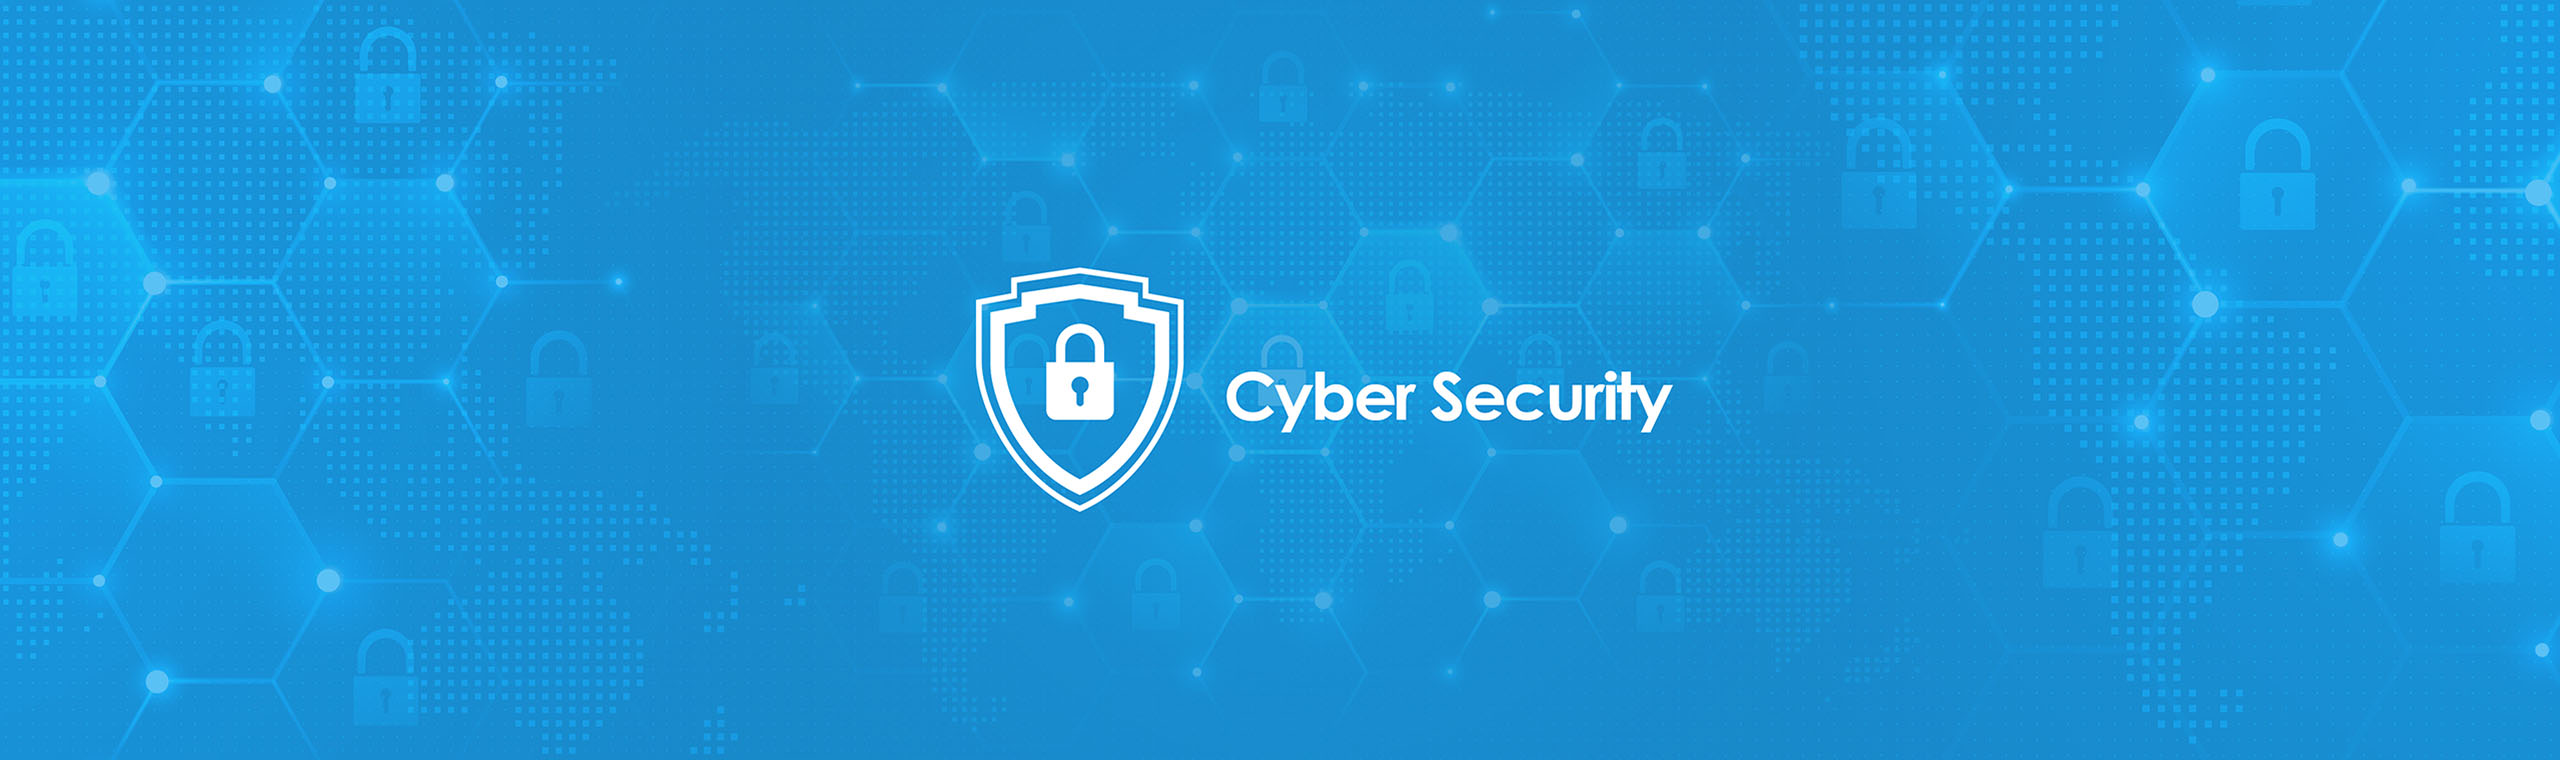
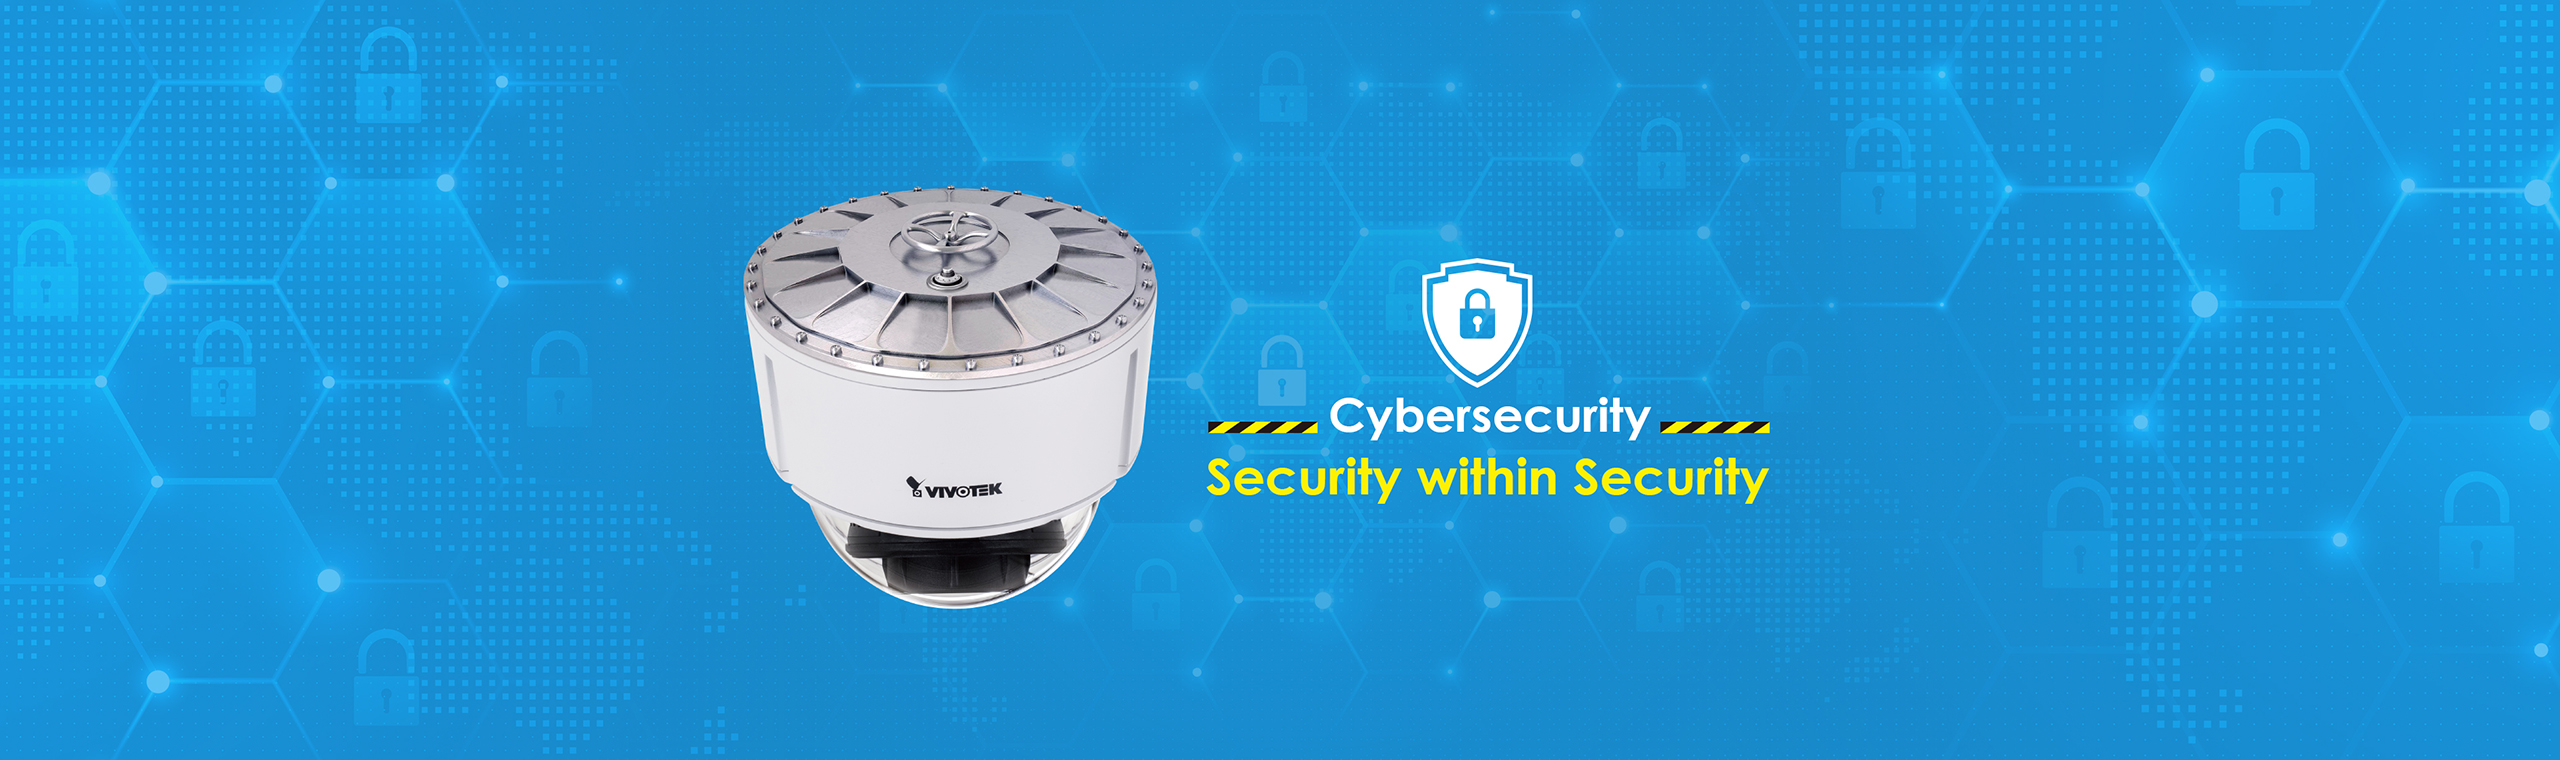
Updates cybersecurity info

Changed region(s): [[0.2812, 0.2421, 0.6875, 0.8171]]

diff --git a/support/cybersecurity/index.html b/support/cybersecurity/index.html
@@ -9,8 +9,8 @@
  <meta charset="utf-8">
  <meta http-equiv="X-UA-Compatible" content="IE=edge,chrome=1">
  <meta name="viewport" content="width=device-width, initial-scale=1.0">
- <title>Cyber Security</title>
- <meta name="description" content="Cyber attacks are a part of the current atmosphere of network computing devices. Due to this unfortunate reality, VIVOTEK pushes forth with industry best practices in order to reduce security vulnerabilities in our products.">
+ <title>Cybersecurity</title>
+ <meta name="description" content="Cyberattacks are a part of the current atmosphere of network computing devices. Due to this unfortunate reality, VIVOTEK pushes forth with industry best practices in order to reduce security vulnerabilities in our products.">
  <link rel="stylesheet" href="css/bootstrap.min.css">
  <link rel="stylesheet" href="css/bootstrap-theme.min.css">
  <link rel="stylesheet" href="css/fontello/fontello.min.css">
@@ -159,7 +159,7 @@ to improve your experience.
     <!-- BANNER -->
     <div class="container-fluid bg_blue_5">
       <div class="row">        
-        <img src="image/support/cyber-security/cyber-security-banner.jpg" alt="Cyber Security" class="width_100">
+        <img src="image/support/cyber-security/cyber-security-banner.jpg" alt="Cybersecurity" class="width_100">
       </div>
     </div>
 
@@ -170,49 +170,146 @@ to improve your experience.
        <div class="col-xs-1 col-md-2"></div>
        <div class="col-xs-10 col-md-8">
 
-        <h2>Overview</h2>
-        <p>Cyber attacks are a part of the current atmosphere of network computing devices. Due to this reality, VIVOTEK pushes forth with industry best practices in order to reduce security vulnerabilities in our products.</p>
+        <p>Cyberattacks are a part of the current atmosphere of network computing devices. Due to this reality, VIVOTEK pushes forth with industry best practices in order to reduce security vulnerabilities in our products.</p>
 
-        <p>VIVOTEK cyber security assurance efforts are built into the lifecycle of its products, including development, verification, manufacturing, delivery and service. We are constantly evaluating and enhancing our cyber security efforts in order to provide our valued customers with the highest quality and most reliable products. Although VIVOTEK cannot protect standardized network protocols and services from cyber attacks, we are committed to helping minimize and stop such events on our customers and VIVOTEK products.</p>
-        <div class="div_clear_38"></div>
+        <p>VIVOTEK cybersecurity assurance efforts are built into the lifecycle of its products, including development, verification, manufacturing, delivery and service. We are constantly evaluating and enhancing our cybersecurity efforts in order to provide our valued customers with the highest quality and most reliable products. Although VIVOTEK cannot protect standardized network protocols and services from cyberattacks, we are committed to helping minimize and stopping such events from occurring on VIVOTEK products.</p>
 
-        <h2>Downloads</h2>
-        <div class="div_clear_38"></div>
-
-        <div>
-          <div class="row text_center img_center">
-
-            <div class="hidden-xs col-md-3"></div>
-            <div class="col-xs-12 col-sm-6 col-md-3 mar_b_138">
-              <a href="http://download.vivotek.com/downloadfile/support/cyber-security/vivotek-vulnerability-policy.pdf?v=policy" target="_blank">
-                <img src="image/support/cyber-security/cyber-security-vulnerability-policy.png" alt="Vulnerability Policy" class="img-responsive width_38"><br>Vulnerability Policy
-              </a>
-            </div>
-            <div class="col-xs-12 col-sm-6 col-md-3 mar_b_138">
-              <a href="http://download.vivotek.com/downloadfile/support/vivotek_security_hardening_guide_v01.pdf?v=01" target="_blank">
-                <img src="image/support/cyber-security/cyber-security-security-hardening-guide.png" alt="Security Hardening Guide" class="img-responsive width_38"><br>Security Hardening Guide
-              </a>
-            </div>
-            <!-- <div class="col-xs-12 col-sm-6 col-md-3 mar_b_138">
-              <a href="firmware/#type-filter:path=.product_files" target="_blank">
-                <img src="image/support/cyber-security/cyber-security-product-firmware.png" alt="Product Firmware" class="img-responsive width_38"><br>Product Firmware
-              </a>
-            </div> -->
-            <div class="hidden-xs col-md-3"></div>
-
-          </div>
-        </div>
         <div class="div_clear_38"></div>
         
-        <h2>Contact Information</h2>
-        <p>Please contact us at <a href="mailto:cybersecurity@vivotek.com">cybersecurity@vivotek.com</a> to report a vulnerability or other security concern. For other support issues, please contact <a href="mailto:technical@vivotek.com">technical@vivotek.com</a>.</p>
+        <!-- Collaborating in Cyber Protection -->
+
+        <h2 class="l_blue_6 text_center">Collaborating in Cyber Protection</h2>
+
+        <div class="div_clear_18"></div>
+
+        <div class="row">
+          <div class="col-md-4">
+             <img src="image/support/cyber-security/cyber-security-management.png" alt="Cybersecurity" class="img_center">
+             <h4 class="text_center">Cybersecurity Management</h4>
+          </div>
+
+          <div class="col-md-4">
+             <img src="image/support/cyber-security/cyber-security-alliance-with-trend-micro.png" alt="Cybersecurity" class="img_center">
+             <h4 class="text_center">Alliance with Trend Micro</h4>
+          </div>
+
+          <div class="col-md-4">
+             <img src="image/support/cyber-security/cyber-security-understand-cyber-risks.png" alt="Cybersecurity" class="img_center">
+             <h4 class="text_center">Understand Cyber Risks</h4>
+          </div>
+        </div>
+
+        <div class="div_clear_18"></div>
+
+        <p>In collaboration with industry-leading cybersecurity software partners, VIVOTEK focuses on making network security products and software that meet industry protocols as well as constantly developing shields to increase your protection from various cyberattacks. By choosing VIVOTEK solutions, users can experience not only high-quality products, but also safer network environments.</p>
+
+        <div class="div_clear_58"></div>
+
+        <!-- Cybersecurity Management -->
+
+        <h2 class="l_blue_7 text_center">Cybersecurity Management</h2>
+
+        <p>VIVOTEK follows the best industry practices in building our security solutions, from product design and firmware development to 3<sup>rd</sup> party testing and reviews:</p>
+
+        <ul>
+          <li>Follows the Open Web Application Security Project (OWASP) Top 10 Guideline for IoT device, mobile, and website codes.</li>
+          <li>Performs internal product security code reviews.</li>
+          <li>Applies static code analysis using Coverity and Defencis.</li>
+          <li>Conducts penetration testing by Devcore, a 3<sup>rd</sup>  party security advisor for review and recommendation.</li>
+          <li>Provides the Vulnerability Policy, Hardening Guide, and Security Advisories for users to understand their cybersecurity needs and risks.</li>
+        </ul>
+
+        <div class="div_clear_28"></div>
+        <h4 class="text_center"><strong>Cybersecurity Report Process</strong></h4>
+        <h4 class="text_center">Timely response and transparency</h4>
+        <img src="image/support/cyber-security/cyber-security-report-process.png" alt="Cybersecurity" class="img_center img-responsive width_100">
+
+        <div class="div_clear_58"></div>
+
+        <!-- Alliance with Trend Micro -->
+
+        <h2 class="l_blue_7 text_center">Alliance with Trend Micro <img src="image/support/cyber-security/cyber-security-trend-micro-logo.png" alt="Cybersecurity" style="vertical-align:bottom;"></h2>
+
+        <div class="div_clear_18"></div>
+    
+        <div class="row">
+          <div class="col-md-6">
+            <div class="div_clear_8"></div>
+            <p>VIVOTEK is the world’s first network surveillance solution manufacturer to cooperate with the world-renowned cybersecurity company, Trend Micro. Through network cameras armed with Trend Micro's anti-intrusion software, VIVOTEK brings high security and robust network surveillance to secure lives and protect data.</p>
+          </div>
+
+          <div class="col-md-6">
+            <div class="pro_tab_video embed-responsive embed-responsive-16by9">
+              <iframe class="embed-responsive-item" src="https://www.youtube.com/embed/Nxl1DnbOq6E?showinfo=0" frameborder="0" allowfullscreen></iframe>
+            </div>
+          </div>
+        </div>
+
+        <div class="div_clear_58"></div>
+
+        <h4 class="text_center"><strong>Multi-Layer Protection Solution for Surveillance Cameras</strong></h4>
+
+        <div class="div_clear_18"></div>
+        
+        <img src="image/support/cyber-security/cyber-security-multi-layer-protection.png" alt="Cybersecurity" class="img_center img-responsive width_80">
+
+        <div class="div_clear_58"></div>
+
+        <ul>
+          <li>Brute Force Attack Detection</li>
+          <p>When the system detects brute-force attacks based on a defined number of failed login attempts, it will automatically activate a defense mechanism to block that IP address and prevent further attacks.</p>
+          <li>Intrusion Detection and Prevention</li>
+          <p>After shutting down if any malware or abnormal access behavior is detected, any attempt to control the console, access controversial websites, or any intrusion behavior will be automatically secured by the offense mechanism.</p>
+          <li>Instant Damage Control</li>
+          <p>If an unknown attack occurs, the system will remotely patch all data and transfer it to the anti-intrusion team to analyze and solve it in a timely manner, effectively decreasing the spread of internal infections, and letting users get back to work safely and quickly.</p>
+        </ul>
 
         <div class="div_clear_38"></div>
 
-        <h2>Security Advisory</h2>
+        <h4 class="text_center"><strong>TMIS-CAM Integration with VIVOTEK</strong></h4>
+        <h4 class="text_center">Trend Micro IoT Security for Surveillance Cameras</h4>
+
+        <div class="div_clear_18"></div>
+
+        <img src="image/support/cyber-security/cyber-security-tmis-cam-integration.png" alt="Cybersecurity" class="img_center img-responsive width_80">
+
+        <div class="div_clear_58"></div>
+
+        <!-- Understand Your Cyber Risks -->
+
+        <h2 class="l_blue_7 text_center">Understand Your Cyber Risks</h2>
+
+        <div class="div_clear_18"></div>
+
+        <p>To safeguard the network, we encourage users to better understand the risks and apply the recommended solutions to reduce their vulnerabilities from cyberattacks:</p>
+        <ul>
+          <li>Use a strong password (Never use the default password).</li>
+          <li>Download the latest firmware to fix bugs and vulnerabilities.</li>
+          <li>Follow VIVOTEK's <u><a href="http://download.vivotek.com/downloadfile/support/cyber-security/vivotek-vulnerability-policy.pdf" target="_blank">Vulnerability Policy</a></u> to know how to manage and respond to security vulnerabilities.</li>
+          <li>Implement VIVOTEK's <u><a href="http://download.vivotek.com/downloadfile/support/vivotek_security_hardening_guide_v01.pdf" target="_blank">Hardening Guide</a></u> to secure basic, advanced, or enterprise infrastructures.</li>
+          <li>Refer <u><a href="support/cybersecurity/test.html#securityadvisory">Security Advisories</a></u> to help reduce risks of known vulnerabilities.</li>         
+        </ul>
+
+        <div class="div_clear_58"></div>
+
+        <!-- Product Security -->
+
+        <h2 class="l_blue_7 text_center">Product Security</h2>
+        <div class="div_clear_8"></div>
+        <h3 class="text_center">News Update</h3>
+
+        <div class="div_clear_8"></div>
+        <ul>
+          <li>2017/11/14: new firmware available for Advisory ID: vvtk-sa-20171001-01: Remote Stack Overflow of Web Server</li>
+        </ul>
+
+        <div class="div_clear_38"></div>
+        
+        <h3 class="text_center" id="securityadvisory">Security Advisory</h3>
         <div class="div_clear_8"></div>
         <div class="row">
-          <div class="col-md-10">
+          <div class="hidden-xs hidden-sm col-md-2"></div>
+          <div class="col-md-8">
             <table class="table table-striped">
               <thead>
                 <tr>
@@ -255,7 +352,7 @@ to improve your experience.
                 </tr>
                 <tr>
                   <td>
-                    <a href="http://download.vivotek.com/downloadfile/support/cyber-security/vivotek-cyber-security-announcement-20170707.pdf" target="_blank">Cyber Security Announcement_Jul 7 2017</a>
+                    <a href="http://download.vivotek.com/downloadfile/support/cyber-security/vivotek-cyber-security-announcement-20170707.pdf" target="_blank">Cybersecurity Announcement_Jul 7 2017</a>
                   </td>
                   <td>
                     Jul 7 2017
@@ -263,7 +360,7 @@ to improve your experience.
                 </tr>
                 <tr>
                   <td>
-                    <a href="http://download.vivotek.com/downloadfile/support/cyber-security/vivotek-cyber-security-announcement-20161104.pdf" target="_blank">Cyber Security Announcement_Nov 4 2016</a>
+                    <a href="http://download.vivotek.com/downloadfile/support/cyber-security/vivotek-cyber-security-announcement-20161104.pdf" target="_blank">Cybersecurity Announcement_Nov 4 2016</a>
                   </td>
                   <td>
                     Nov 4 2016
@@ -274,6 +371,40 @@ to improve your experience.
           </div>
           <div class="hidden-xs hidden-sm col-md-2"></div>
         </div>
+
+        <div class="div_clear_38"></div>
+
+        <h3 class="text_center">Downloads</h3>
+        <div class="div_clear_38"></div>
+
+        <div>
+          <div class="row text_center img_center">
+
+            <div class="hidden-xs col-md-3"></div>
+            <div class="col-xs-12 col-sm-6 col-md-3 mar_b_138">
+              <a href="http://download.vivotek.com/downloadfile/support/cyber-security/vivotek-vulnerability-policy.pdf" target="_blank">
+                <img src="image/support/cyber-security/cyber-security-vulnerability-policy.png" alt="Vulnerability Policy" class="img-responsive width_38"><br>Vulnerability Policy
+              </a>
+            </div>
+            <div class="col-xs-12 col-sm-6 col-md-3 mar_b_138">
+              <a href="http://download.vivotek.com/downloadfile/support/vivotek_security_hardening_guide_v01.pdf" target="_blank">
+                <img src="image/support/cyber-security/cyber-security-security-hardening-guide.png" alt="Security Hardening Guide" class="img-responsive width_38"><br>Security Hardening Guide
+              </a>
+            </div>
+            <!-- <div class="col-xs-12 col-sm-6 col-md-3 mar_b_138">
+              <a href="firmware/#type-filter:path=.product_files" target="_blank">
+                <img src="image/support/cyber-security/cyber-security-product-firmware.png" alt="Product Firmware" class="img-responsive width_38"><br>Product Firmware
+              </a>
+            </div> -->
+            <div class="hidden-xs col-md-3"></div>
+
+          </div>
+        </div>
+
+        <div class="div_clear_38"></div>
+        
+        <h3 class="text_center">Contact Information</h3>
+        <p>Please contact us at <a href="mailto:cybersecurity@vivotek.com">cybersecurity@vivotek.com</a> to report a vulnerability or other security concern. For other support issues, please contact <a href="mailto:technical@vivotek.com">technical@vivotek.com</a>.</p>
 
        </div>
        <div class="div_clear_88"></div>
@@ -325,7 +456,7 @@ to improve your experience.
 
 
 
- <!-- !JAVASCRIPT START -->
+ <!-- !JAVASCRIPT START --> 
  <script>
  $("#nav").load("//www.vivotek.com/website/nav.html");
  $("#footer").load("//www.vivotek.com/website/footer.html");
